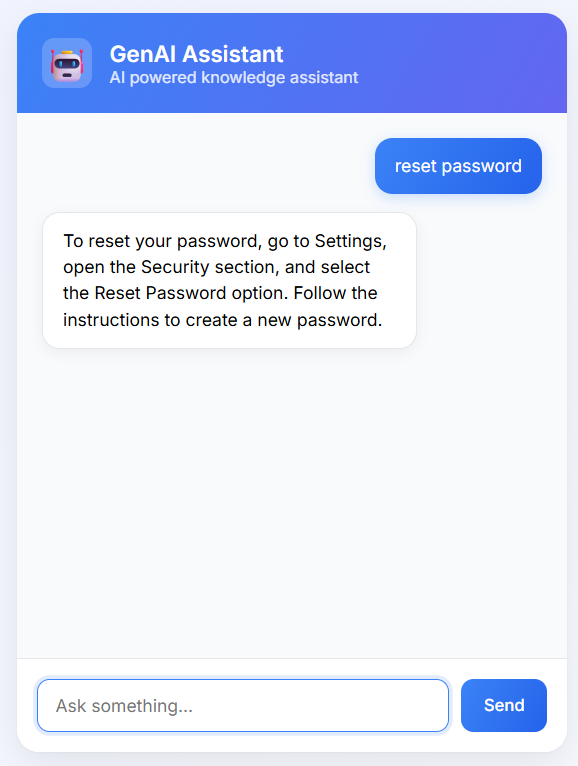
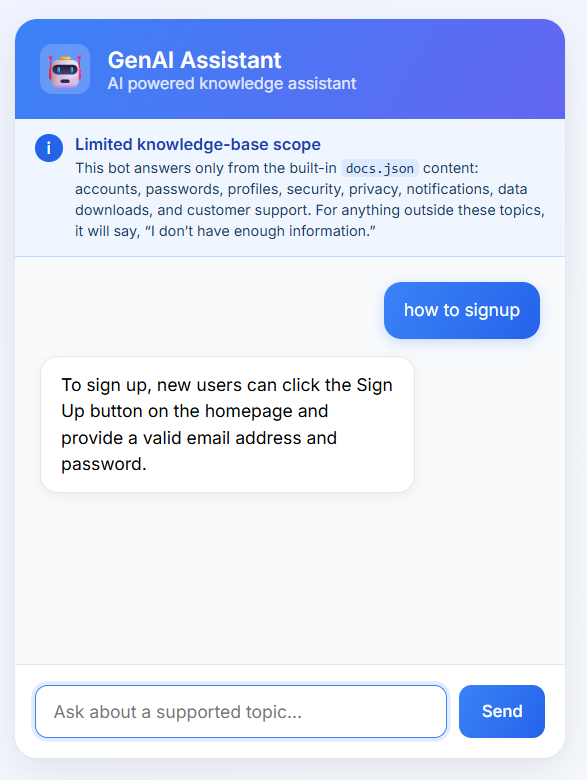
Update README with production screenshots
Replace the old gallery images with the current knowledge-scope interface, grounded-answer example, and out-of-scope refusal screenshots.

diff --git a/README.md b/README.md
@@ -84,9 +84,9 @@ Good questions to try:
 
 ## Screenshots
 
-| Chat interface | Grounded answer | Additional query |
+| Knowledge-scope interface | Grounded answer | Out-of-scope refusal |
 | --- | --- | --- |
-| ![GenAI Assistant chat interface](screenshots/interface.png) | ![Assistant answering a knowledge-base question](screenshots/assistant1.png) | ![Assistant responding to another supported question](screenshots/assistant2.png) |
+| ![GenAI Assistant showing its supported knowledge scope](screenshots/interface.png) | ![Assistant answering a supported account-creation question](screenshots/assistant1.png) | ![Assistant refusing a question that is not covered by the knowledge base](screenshots/assistant2.png) |
 
 ## Technology stack
 
